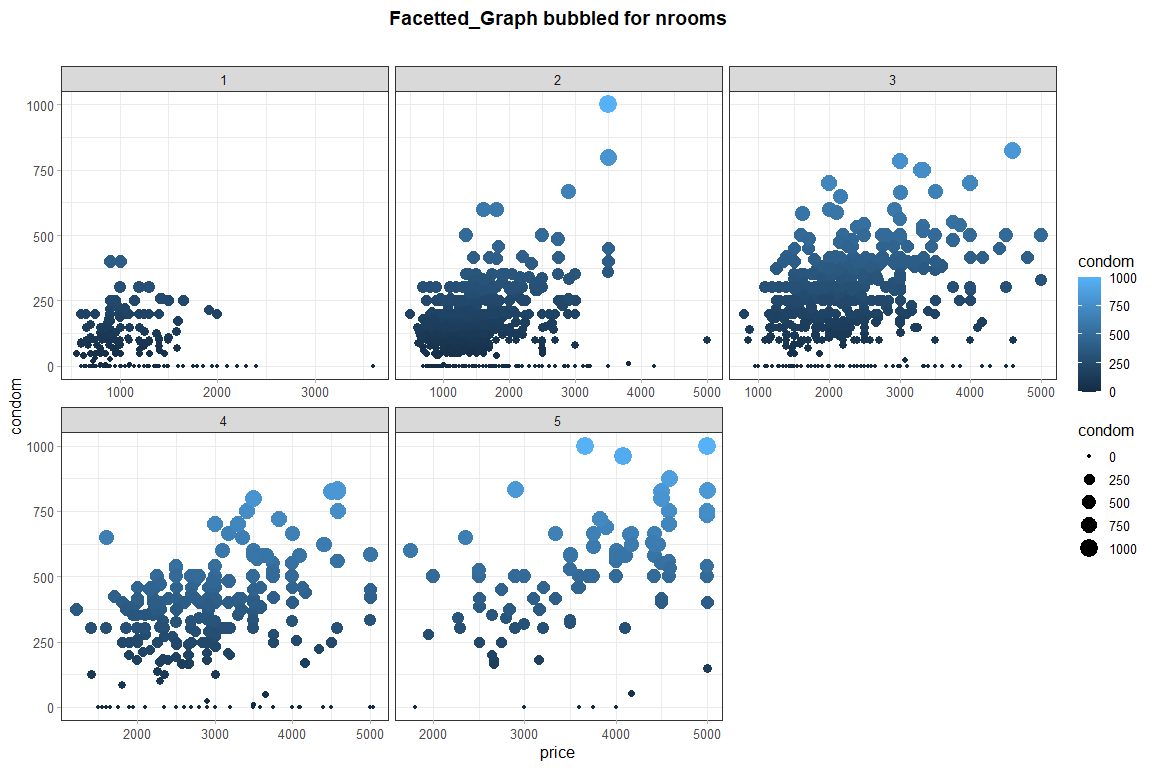
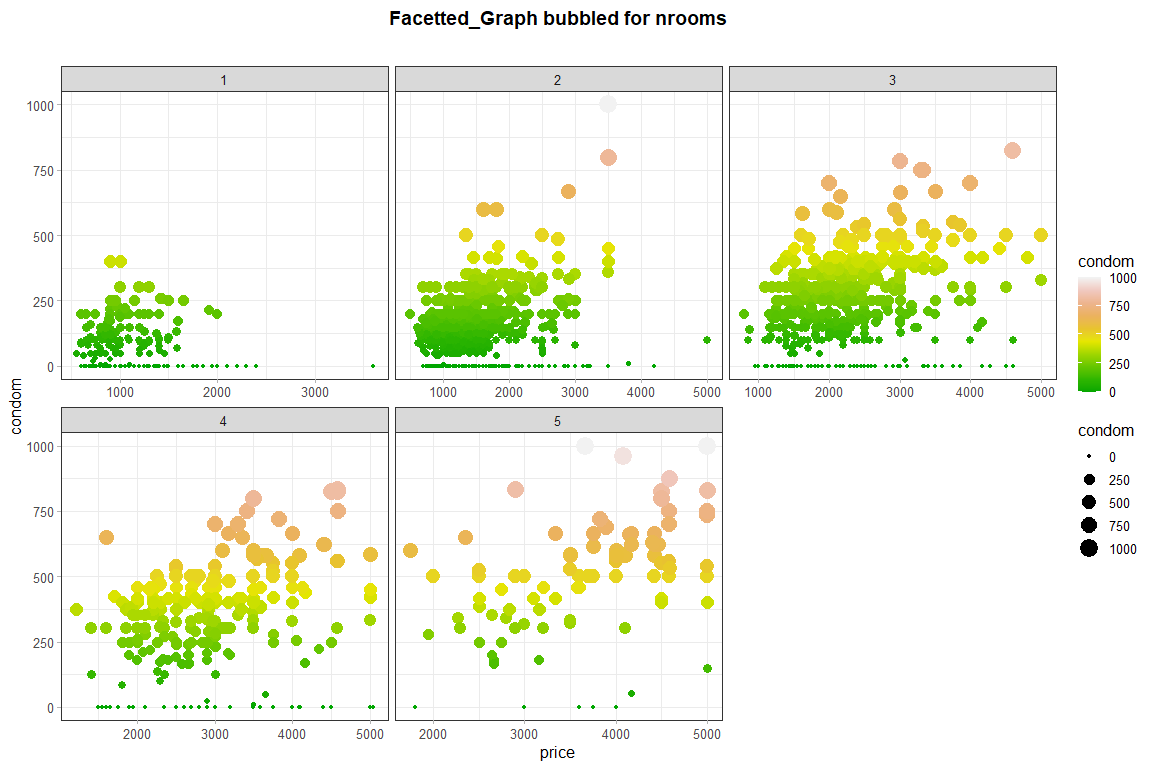
commit mod readme

diff --git a/README.md b/README.md
@@ -1,7 +1,7 @@
 
 <!-- README.md is generated from README.Rmd. Please edit that file -->
 
-<img src="logo.png" align="right" height="80" />
+<img src="logobis.png" align="right" height="100" />
 
 # “Plottando”
 
@@ -12,6 +12,10 @@
 
 ### IG-out:
 
+**[ecco il profilo](https://www.instagram.com/plottando/)**
+
+[![](img/url-1.png)](https://www.instagram.com/plottando/)<!-- -->
+
 ### Description:
 
 This repo sets up together all the work in plottin I have been putting
@@ -20,11 +24,23 @@ reproducible. Moreover It allows me to have a glance of the
 visualization communication power wrt to its goal, aaand to have a clue
 of which type of data are suited for this; eg maps need long and lat …
 They are all mainly based on `ggplot2` and `Plotly`, but sometimes other
-represenation are take from other packages. the **libs.R** will clear up
-the libraries that I am using throughout the
+represenation are taken from other packages. the **libs.R** will clear
+up the libraries that I am using throughout the
 project.
 
 ### Visuals:
+
+<p align="center">
+
+<img src="Rmd_gen/imgOut/Jittered_Box_Plot-1.png" width="1152" />
+
+</p>
+
+<p align="center">
+
+<img src="Rmd_gen/imgOut/Facetted_Graph-1.png" width="1152" />
+
+</p>
 
 ### License:
 

diff --git a/Rmd_gen/Facet-Graph.md b/Rmd_gen/Facet-Graph.md
@@ -11,13 +11,22 @@ ldataset = dataset %>%
   dplyr::filter(!(floor %in% c("NA", "12", "10")))
 
 q = ggplot(ldataset) +
-  aes(x = price, y = condom, colour = condom, size = condom) +
+  aes(x = price, y = condom, 
+      colour = condom, 
+      size = condom) +
   geom_point() +
   scale_color_gradient() +
   theme_minimal() +
   facet_wrap(vars(nroom), scales = "free_x") +
+  scale_colour_gradientn(colours = terrain.colors(10)) +
   ggtitle("Facetted_Graph bubbled for nrooms") +
   theme_nicco()
+```
+
+    ## Scale for 'colour' is already present. Adding another scale for 'colour',
+    ## which will replace the existing scale.
+
+``` r
 q
 ```
 
